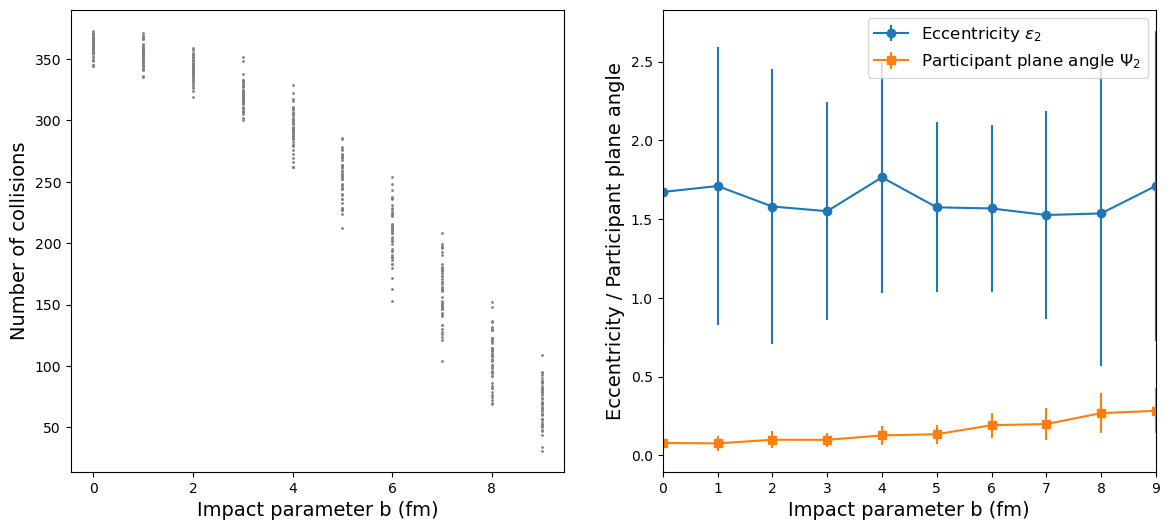
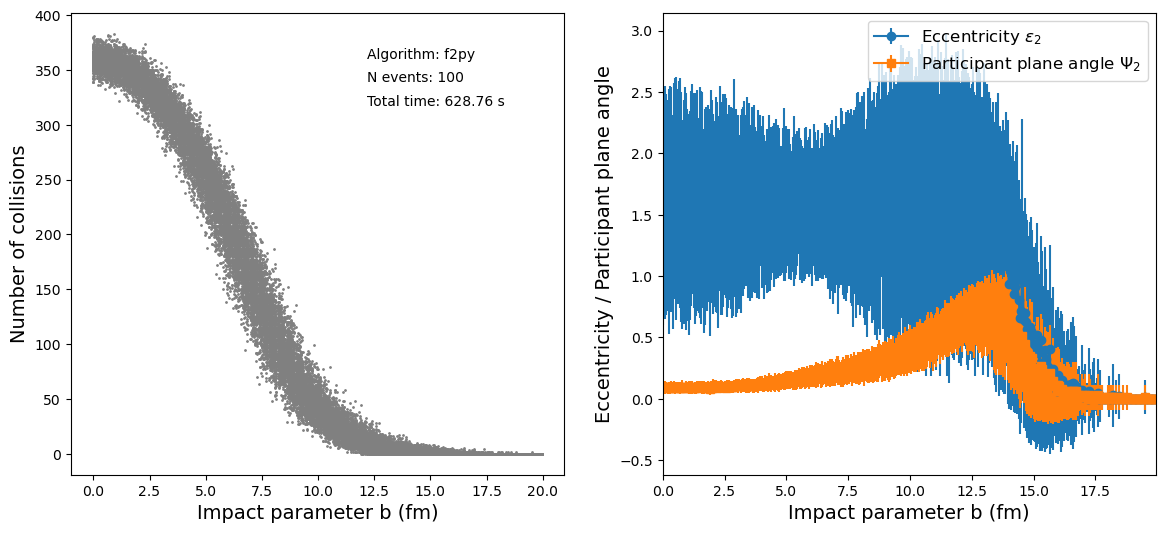
pure fortran sim, preliminary readme

diff --git a/main.py b/main.py
@@ -15,7 +15,7 @@ class setup:
   b_array: np.ndarray = field(default_factory=lambda: np.arange(0, 20, .05))
   #b_array: np.ndarray = field(default_factory=lambda: np.arange(0, 10, 1))
 
-  n_events: int = 50
+  n_events: int = 100
   # save_path: str = "glauber_results.npz"
 
 def main_purefort():
@@ -24,14 +24,16 @@ def main_purefort():
 
   time0 = time.time()
   cols = np.zeros((par.n_events,par.b_array.shape[0]), 'f', order='F')
-  ecc2 = np.zeros(par.b_array.shape, 'f', order='F')
-  psi2 = np.zeros(par.b_array.shape, 'f', order='F')
-  nucphys.simulation.proc(par.b_array, par.A, cols)#, psi1, ecc2)
+  ecc2 = np.zeros((par.n_events,par.b_array.shape[0]), 'f', order='F')
+  psi2 = np.zeros((par.n_events,par.b_array.shape[0]), 'f', order='F')
+  nucphys.simulation.proc(par.b_array, par.A, cols, psi2, ecc2)
   time1 = time.time()
   print(f"Pure fortran (sim) version took {time1 - time0:.2f} seconds")
 
   cols = cols.T
-  plot_res(par, cols, ftype="purefortran") 
+  ecc2 = ecc2.T
+  psi2 = psi2.T
+  plot_res(par, cols, psi2, ecc2, ftype="purefortran", total_time = time1 - time0)
 
 
 
@@ -80,7 +82,7 @@ def main_fortran():
   
   cols = np.array(cols)
   # print(cols.mean(axis=1))
-  plot_res(par, cols, total_ecc2, total_psi2, "f2py")
+  plot_res(par, cols, total_ecc2, total_psi2, "f2py", total_time = time1 - time0)
  
 
 
@@ -117,7 +119,7 @@ def main_py():
   print(f"\n py version took {time1 - time0:.2f} seconds")
   
   cols = np.array(cols)
-  plot_res(par, cols, total_ecc2, total_psi2)
+  plot_res(par, cols, total_ecc2, total_psi2, total_time = time1 - time0)
   
 if __name__ == "__main__":
   arg_parser = argparse.ArgumentParser()

diff --git a/utils/plotting.py b/utils/plotting.py
@@ -1,7 +1,7 @@
 import matplotlib.pyplot as plt
 import numpy as np
 
-def plot_res(par, cols, total_ecc2 = None, total_psi2 = None, ftype = "python"):
+def plot_res(par, cols, total_ecc2 = None, total_psi2 = None, ftype = "python", total_time = 0):
 
   f,axs = plt.subplots(1,2, figsize=(14,6))
   
@@ -15,6 +15,9 @@ def plot_res(par, cols, total_ecc2 = None, total_psi2 = None, ftype = "python"):
   ax.set_xlabel("Impact parameter b (fm)", fontsize=14)
   ax.set_ylabel("Number of collisions", fontsize=14)
   
+  ax.annotate("Algorithm: "+ftype, xy=(0.6,0.9), xycoords="axes fraction")
+  ax.annotate("N events: "+str(par.n_events), xy=(0.6,0.85), xycoords="axes fraction")
+  ax.annotate(f"Total time: {total_time:.2f} s", xy=(0.6,0.8), xycoords="axes fraction")
   
   ax = axs[1]
   

diff --git a/collision_anim.py b/collision_anim.py
@@ -100,8 +100,7 @@ def update(frame):
   return sc1, sc2, scb
 
 ani=FuncAnimation(fig,update,frames=80,init_func=init,interval=100,blit=False)
-plt.show()
-
+ani.save("figures/glauber.gif", writer="pillow", fps=20)
 
 
 

diff --git a/README.md b/README.md
@@ -1,0 +1,79 @@
+# Glauber simulation in Python using Fortran via f2py
+
+
+## Overview
+This repository contains a simple implementation of the Glauber model for simulating high-energy nuclear collisions using Python and Fortran. The Fortran code is compiled and interfaced with Python using `f2py`, allowing for efficient numerical computations.
+The purpose of the simulation is not so much being correct, but rather to show how much computational gain can be achieved by using Fortran for the heavy numerical lifting while keeping the ease of use of Python for higher-level logic and data handling.
+
+## Requirements
+- Python 3.x
+- Fortran compiler (e.g., gfortran)
+- NumPy
+- f2py 
+- Matplotlib
+- Meson
+- Ninja
+
+## Installation
+1. Clone the repository:
+   ```bash
+   git clone
+    cd glauber_simulation
+    ```
+2. Install the required Python packages (they are present in the requirements.txt):
+    ```bash
+    pip install -r requirements.txt
+    ```
+3. Install meson + ninja
+    ```bash
+    pip install meson ninja
+    ```
+
+4. Build the Fortran modules using f2py:
+    ```bash
+    make
+    ```
+
+## Usage
+Run the simulation script:
+```bash
+python main.py --v <argument>
+```
+The arguments supported are:
+- "python": runs the pure Python implementation. Without any arguments this is the default.
+- "f": runs the Fortran implementation via f2py. Simulation loop is still in python, but all the heavy numerical lifting is done in Fortran.
+- "pf": runs the pure Fortran implementation. The entire simulation loop is done in Fortran, and only the results are passed back to Python for visualization. This is still called via f2py.
+
+There are also some plotting scripts which produces figures in the "figures" folder:
+```bash
+python plot_collision_with_RP.py 
+```
+Which plots a sample collision with the reaction plane and event plane indicated.
+
+```bash
+python collision_anim.py
+```
+Which produces a simple animation of a sample collision.
+
+The results from main.py are also saved as a plot in the "figures" folder, showing some different relevant observables, such as the number of participants as a function of impact parameter, but also the time the program took to run for the different implementations.
+
+## Results
+Here are some example results from the simulation:
+![Sample Collision](figures/one_glauber_col_with_RP_Psi2.png)
+This was mainly done to verify that the Fortran implementation produces the same results as the Python one. As well as showing that the result of the simulation is somewhat sane.
+
+Animation of a sample collision:
+![Collision Animation](figures/glauber.gif)
+
+Pure python implementation:
+![Pure Python Results](figures/nc_impb_algpython.png)
+
+Fortran implementation via f2py:
+![Fortran via f2py Results](figures/nc_impb_algf2py.png)
+
+Pure Fortran implementation:
+![Pure Fortran Results](figures/nc_impb_algpurefortran.png)
+
+## Performance
+
+
